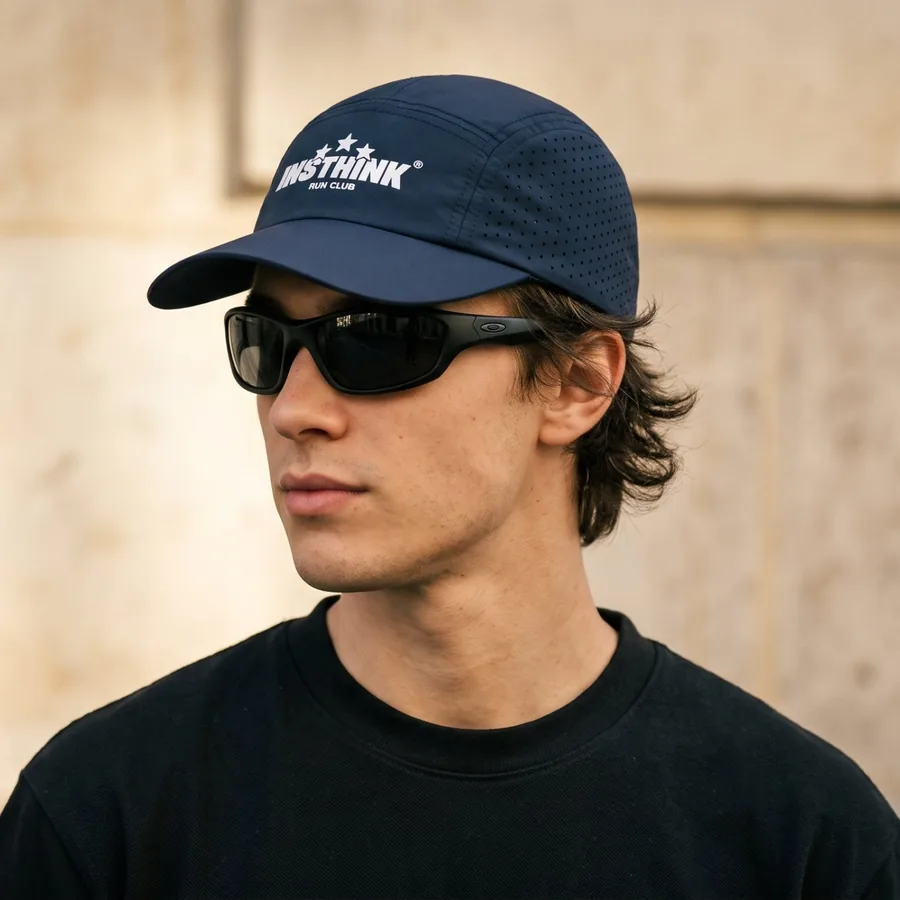
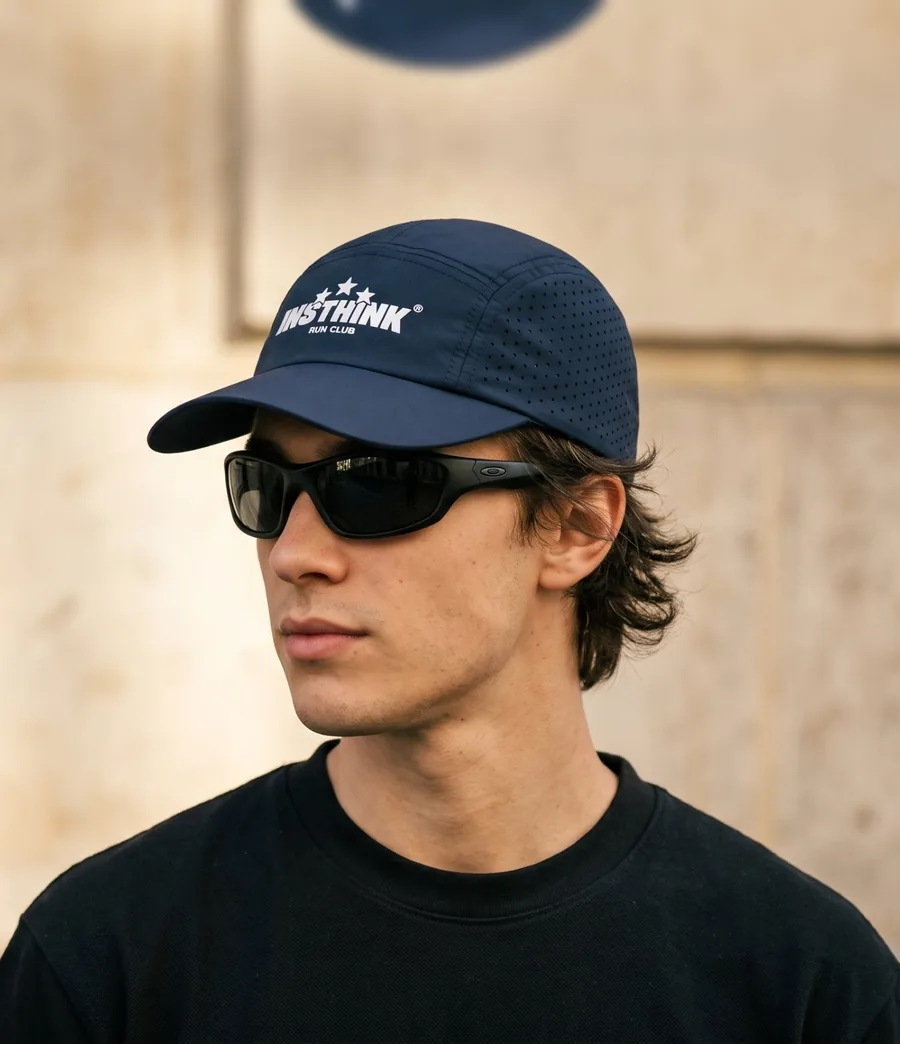
Add files via upload

diff --git a/css/style.css b/css/style.css
@@ -1227,3 +1227,17 @@ footer.site-foot img.foot-spons { height: auto; width: min(560px, 88%); opacity:
   #leaderboard .lb-prize .lb-media img { translate: none; }
 }
 #leaderboard .lb-prize .lb-media img.m-cap { inset: auto; left: 8%; top: 9%; width: 84%; height: 56%; object-fit: contain; }
+
+/* v20.2: รูปนายแบบมีพื้นที่เหนือหมวกเพิ่ม (ไม่ให้ป้าย LIMITED ทับโลโก้) + เดสก์ท็อปจัด 2 คอลัมน์ ให้เห็นนายแบบทั้งตัว */
+#leaderboard .lb-prize .lb-media img.m-photo { object-position: 50% 0%; }
+@media (min-width: 860px) {
+  #leaderboard .lb-card { grid-template-columns: minmax(0, 1.05fr) minmax(0, 1fr); column-gap: 32px; align-items: start; padding: 28px; }
+  #leaderboard .lb-card > :not(.lb-prize) { grid-column: 2; }
+  #leaderboard .lb-card > .lb-prize { grid-column: 1; grid-row: 1 / span 8; height: 100%; min-height: 560px; align-self: stretch; }
+  #leaderboard .lb-card > .btn { justify-self: start; }
+  #leaderboard .lb-prize .lb-top { font-size: 76px; }
+  #leaderboard .lb-prize > div { left: 28px; right: 28px; bottom: 78px; }
+  #leaderboard .lb-prize span#lbPrizeNote { left: 28px; bottom: 30px; }
+  #leaderboard .lb-prize .lb-go { right: 24px; bottom: 22px; }
+  #leaderboard .lb-prize span.lb-badge { left: 22px; top: 22px; }
+}
